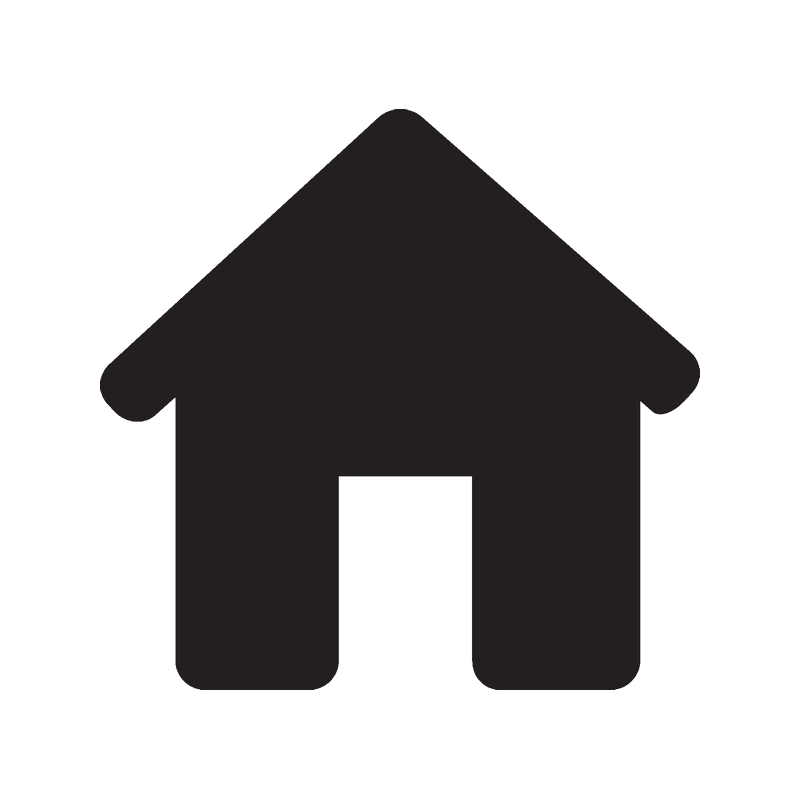
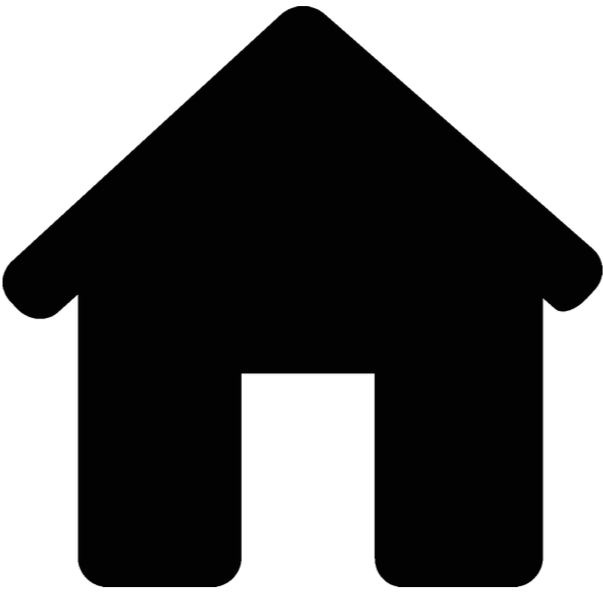
fotos fixed

diff --git a/resources/css/app.css b/resources/css/app.css
@@ -20,18 +20,18 @@ footer {
         height: 100%;
         color: #f8f9fa;
         background-repeat: no-repeat;
-    }
-    
-    div:nth-child(1) div {
-        background-image: url('../../public/images/home.png');
-        background-position: 150%;
-        background-size: 70%;
-    }
-
-    div:nth-child(2) div {
-        background-image: url('../../public/images/info.png');
         background-position: 115%;
         background-size: 50%;
+    }
+
+    div:nth-child(3) div {
+        background-position: 140%;
+        background-size: 60%;
+    }
+
+    div:nth-child(4) div {
+        background-position: 120%;
+        background-size: 45%;
     }
 }
 

diff --git a/resources/views/include/footer.blade.php b/resources/views/include/footer.blade.php
@@ -1,6 +1,7 @@
 <footer class="bg-light flex">
     <div class="col-3 p-3">
-        <div class="bg-primary border rounded-3 p-2 ps-4">
+        <div class="bg-primary border rounded-3 p-2 ps-4"
+            style="background-image: url('{{ asset('images/home.png') }}');">
             <p class="text-light">
             <h4>Adres</h4>
             Oranje Nassau College Parkdreef<br>
@@ -13,14 +14,16 @@
         </div>
     </div>
     <div class="col-3 p-3">
-        <div class="bg-primary border rounded-3 p-2 ps-4">
+        <div class="bg-primary border rounded-3 p-2 ps-4"
+            style="background-image: url('{{ asset('images/info.png') }}');">
             <p class="text-light">
             <h4>Snel naar *info tabs*</h4>
             </p>
         </div>
     </div>
     <div class="col-3 p-3">
-        <div class="bg-primary border rounded-3 p-2 ps-4">
+        <div class="bg-primary border rounded-3 p-2 ps-4"
+            style="background-image: url('{{ asset('images/dev.png') }}');">
             <p class="text-light">
             <h4>devs *links naar dev paginas*</h4>
             Quinten Jungschlager<br>
@@ -30,7 +33,8 @@
         </div>
     </div>
     <div class="col-3 p-3">
-        <div class="bg-primary border rounded-3 p-2 ps-4">
+        <div class="bg-primary border rounded-3 p-2 ps-4"
+            style="background-image: url('{{ asset('images/phone.png') }}');">
             <p class="text-light">
             <h4>Volg ons op *link naar media*</h4>
             </p>

diff --git a/resources/views/include/header.blade.php b/resources/views/include/header.blade.php
@@ -5,6 +5,7 @@
     <meta charset="UTF-8">
     <meta name="viewport" content="width=device-width, initial-scale=1.0">
     <title><?= $title ?></title>
+    <link rel="stylesheet" href="{{ asset('resources/css/app.css') }}">
     @vite('resources/css/app.css')
 </head>
 <?php
